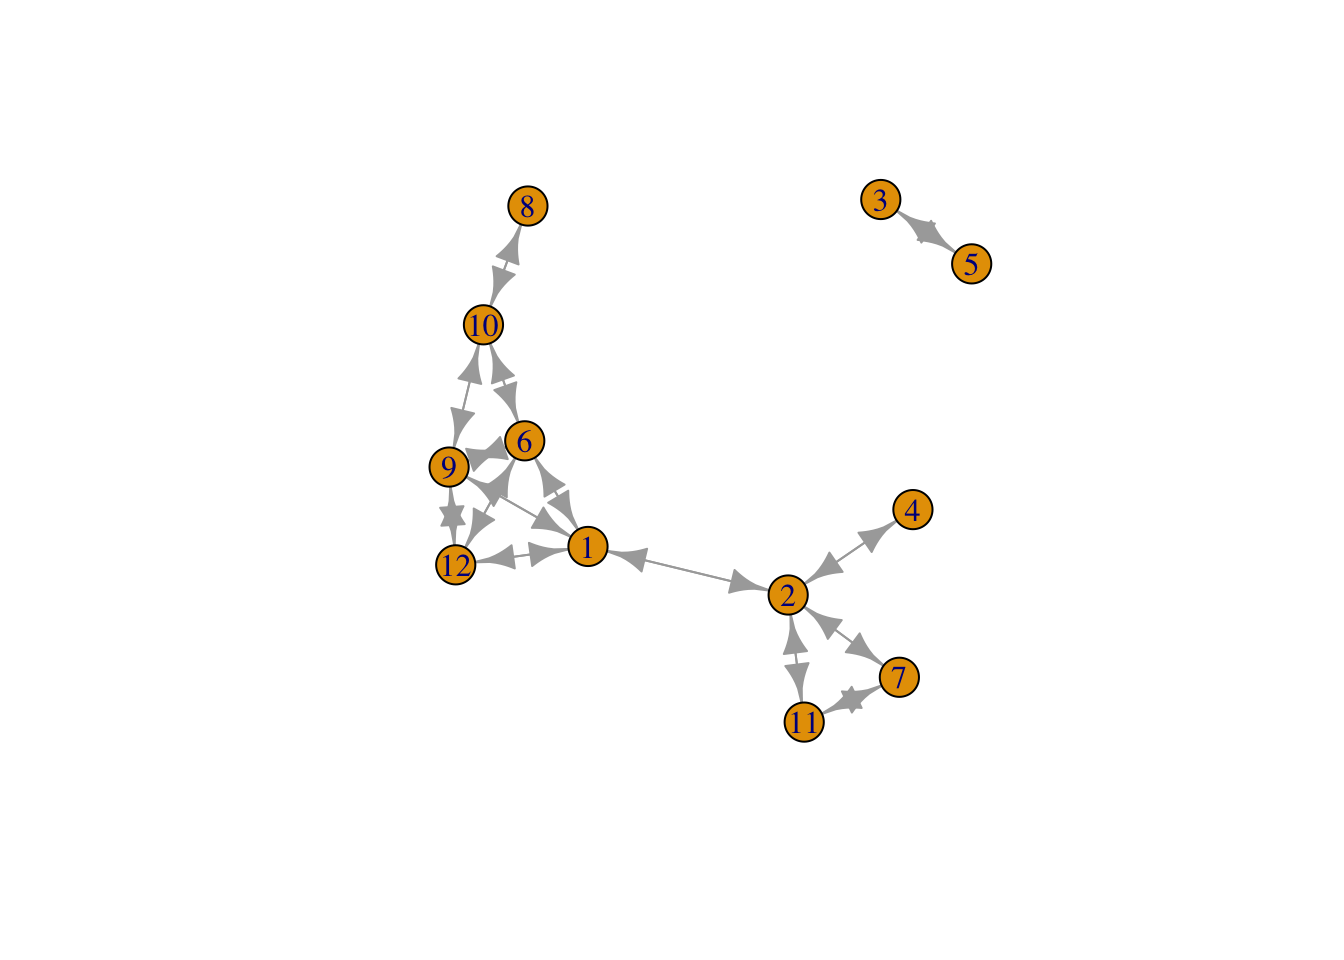
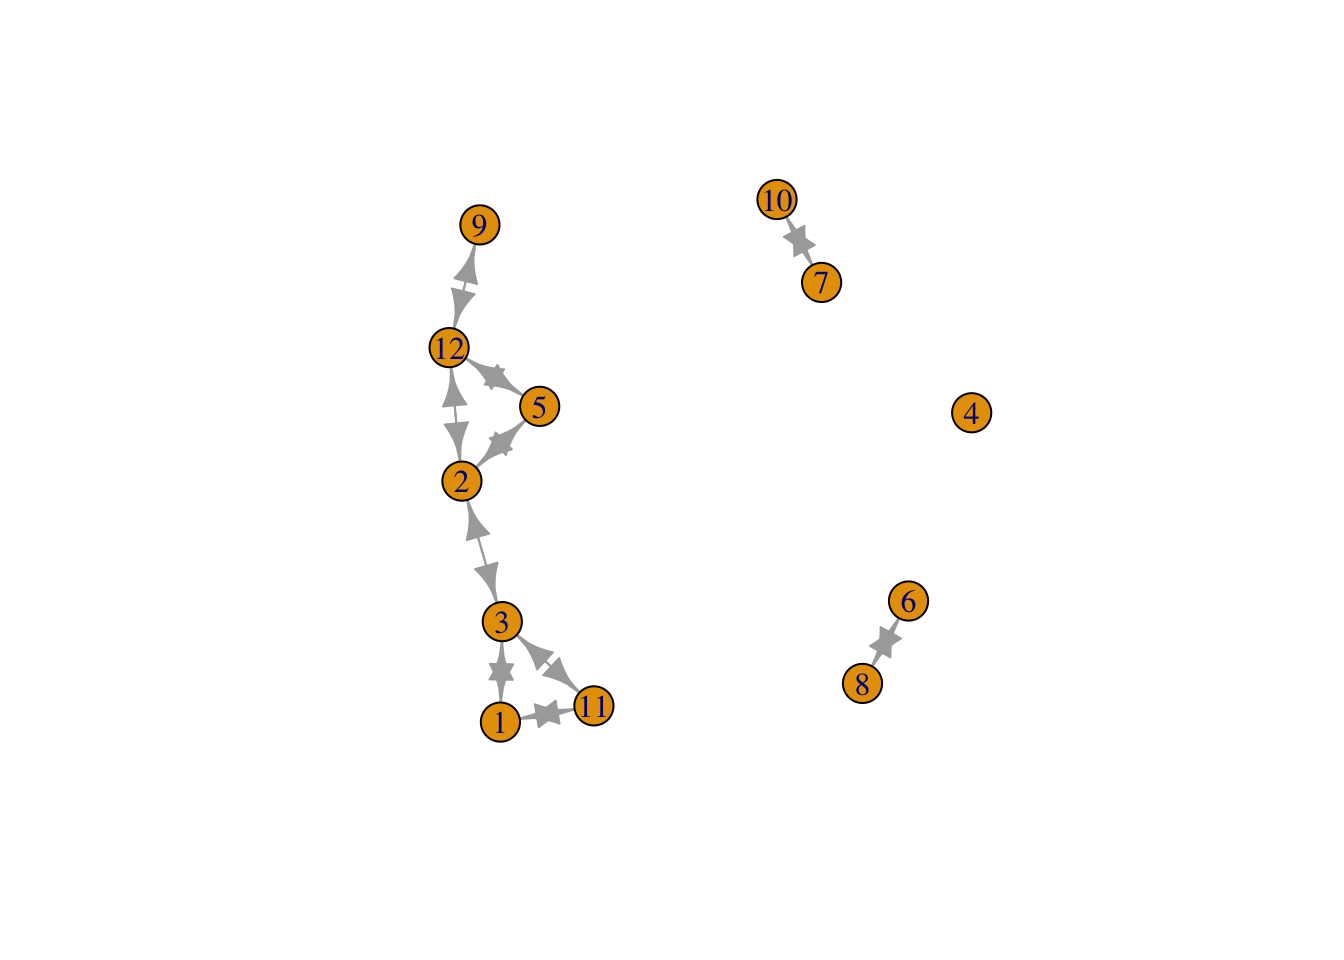
update with seed

diff --git a/content/cn/2020-06-24-r-network-analysis.html b/content/cn/2020-06-24-r-network-analysis.html
@@ -20,7 +20,8 @@ tags:
 <p>好了，说这么多还是要给点最直观的例子。下面我就手工生成几个网络并做下基础可视化，这里我不会用最常见的那种起点终点数据结构，因为这个东西是需要从原始数据生成的，很少有原始数据本身就是这种关系结构，而且此处我也不涉及 <code>ggplot2</code> 风格的绘图包，用基础绘图系统来做，函数统一为<code>plot</code>，当然不同的对象类型会有不同的绘图参数。</p>
 <div id="network-版" class="section level2">
 <h2><code>network</code> 版</h2>
-<pre class="r"><code>library(network)
+<pre class="r"><code>set.seed(110)
+library(network)
 # 生成一个3节点网络
 net &lt;- network.initialize(3)
 # 画出来
@@ -54,7 +55,8 @@ plot(netcor,vertex.cex=5,vertex.col=get.vertex.attribute(netcor,&quot;class&quot
 </div>
 <div id="igraph-版" class="section level2">
 <h2><code>igraph</code> 版</h2>
-<pre class="r"><code>library(igraph)
+<pre class="r"><code>set.seed(110)
+library(igraph)
 # 生成一个3节点网络
 net &lt;- graph.empty(n=3, directed=TRUE)
 # 画出来
